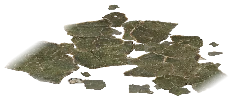
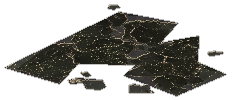
Éclats du verre v1.1 : plus de lichen, verre vitrifié sombre (mêmes px, mêmes ancres)
Les décalques rc_vr_eclats_3q/_b/_c, plaques, coulures, arêtes et aiguilles
ne se lisent plus comme des îlots de lichen vert pâle. Fill brun-noir et vert
bouteille sombre, arêtes et fissures nettes (sel, ambre pâle). Calques
_reflet réalignés, jour seulement, pas une émission. Rien à recâbler.
MUTANTS §15.6 et journal mis à jour.

diff --git a/docs/rencontres/README.md b/docs/rencontres/README.md
@@ -57,6 +57,8 @@ Une ligne par lot publié : date, commit, ce qui marche en jeu, ce qui reste.
 - 2026-11-18 : `014db7e` + `98a6fd2` + docs (Ocre) — sprites de « Le témoin sous les pins » (groupe `rc_survivant_pins`, 23 clés) : 5 sols `g_rc_aiguilles` / `g_rc_piste_foret` (+ variantes), 11 décors (pins, pin foudroyé, fourré, borne, mulet, besace, soulier, lanterne + `_neon`, traînée, ornières), Roque et Paca en face + vraie vue de dos et portraits 192 px. Mateo n'a pas de sprite (absent). Table des poses : [SURVIVANT.md §15](SURVIVANT.md#15-poses-définitives-et-sprites-publiés). Planche et maquette (MAQUETTE) hors dépôt : `nml-shots/rencontres/survivant_planche_sprites.png`, `survivant_maquette.png`. Rien en jeu, aucun `src/` touché. Reste : câblage Rivet (catalogue `survivant_pins`, ambiance `forest`, enseigne de la lanterne + flaque générique). Garde-fou de Régie noté en tête du §13 : les drapeaux `monde_*` ne font pas quête tant que Valentin n'a pas validé la filière.
 - 2026-11-18 : jalon 2, retouches de l'écluse + éclats du verre (Rivet, retours Régie + Ocre ; `4a98aa9`, `2540cf6`, `7c2d322`, `fab540c`) — **cadrage d'arrivée 1280** : cadre desktop `x [18.5, 32.5]` (6,5 m vers l'est, 2 m laissaient le blindé rogné), blindé entier, sortie ouest et son étiquette gardées, 390 inchangé ; **four de nuit** : enseigne `ver_feu` à 1.3, flaque `i: 2`, nouveau champ `echelle: 3.5` (agrandit autour du barycentre de lumière) ; mesure : bivouac 8 à 15 m² de sol réchauffé, four 6 à 10 m² (avant : moins de 1 m²), verre jamais lumineux ; **libellé de groupe** (`groupe`, ARCHI §4 ter) : une seule « La harde » en exploration (centroïde des jeunes) et dans la barre de combat, « Le gris » garde son nom ; **éclats de la bande nord** (MUTANTS §15.6) : 5 décalques en `fond: true` + 5 modules avec solides, calque générique `<clé>_reflet` additif à `1 − lune`, jamais une émission (test : 10 reflets visibles à 10 h, opacité 0 à 23 h). Suites locales : verriers 142/142, rencontres 91/91, caravane 93/93, nml_boot 32/32, carte_nml 78/78.
 
+- 2026-11-18 : (Ocre) — **éclats du verre v1.1** : `rc_vr_eclats_3q` / `_b` / `_c`, `rc_vr_plaques_3q`, `rc_vr_coulures_3q`, `rc_vr_aretes_3q`, `rc_vr_aiguilles_3q` / `_b` et leurs `_reflet`. Mêmes clés, mêmes px, mêmes ancres (rien à recâbler). Fill brun-noir et vert bouteille sombre, plus de lichen vert pâle ; arêtes et fissures nettes (sel, ambre pâle) ; `_reflet` réaligné, jour seulement, pas une émission. Journal : [MUTANTS.md §15.6](MUTANTS.md#156-éclats-et-arêtes-identité-du-biome-bande-nord). Maquettes hors dépôt : `nml-shots/rencontres/verre_eclats_v11_maquette.png`, `verre_eclats_v11_avant_apres.png`. Aucun `src/` touché, manifeste inchangé.
+
 ## Décisions de DA et de lore (Ocre)
 _À compléter à chaque lot._
 - Jalon 1 : voir [PILOTE.md §13](PILOTE.md#13-décisions-de-da-et-de-lore-à-valider-par-valentin) (bande sans faction, noms nouveaux, lien avec Anselme, biome désert ; depuis l'alignement sur ARCHI : lit au niveau 0 rendu par le sol et les berges, sols `g_rc_*` propres au pilote, Tuerto avec son propre sprite, Quilla en deux poses).

diff --git a/docs/rencontres/MUTANTS.md b/docs/rencontres/MUTANTS.md
@@ -1008,3 +1008,12 @@ Les `_reflet` se posent sur la même emprise que leur parent, le jour seulement.
 | `rc_vr_aiguilles_b_3q_reflet` | 52 × 57 | [35, 61] | calque `reflet` |
 
 Les ancres des décalques 4 m peuvent tomber un peu sous le bas de la toile : la matière opaque ne remplit pas tout le carré (alpha fondue, comme les autres décalques au sol).
+
+#### Retouche v1.1 (couleur, mêmes clés)
+Constat sur la capture `bande_nord_jour_1280` (lot Rivet, `/tmp/nml-test-out/rencontres_j2_verriers_fix/livraison/`) : les décalques `rc_vr_eclats_3q` / `_b` / `_c`, et dans une moindre mesure les plaques et les coulures, se lisaient comme des îlots de lichen vert pâle, pas comme du verre.
+
+Retouche **sur place**, mêmes clés, **mêmes px, mêmes ancres**, `_reflet` réalignés sur les nouvelles arêtes. Rien à recâbler. Le fill passe au brun-noir et au vert bouteille sombre ; les arêtes et les fissures de la mosaïque d'origine sont nettes, plus claires (sel, ambre pâle), sans halo ni émission. Les bords sont un peu durcis ; le calque `_reflet` reste additif, jour seulement, opacité `1 − lune`. `g_rc_verre` est inchangé.
+
+Maquette avant / après (MAQUETTE, pas une capture) : `/workspace/nml-shots/rencontres/verre_eclats_v11_avant_apres.png`. Aperçu sur sol de verre : `/workspace/nml-shots/rencontres/verre_eclats_v11_maquette.png`.
+
+**Défaut restant :** les grands décalques `eclats_*` ont encore un contour un peu lobé (la mosaïque interne est anguleuse, le pourtour l'est moins).
